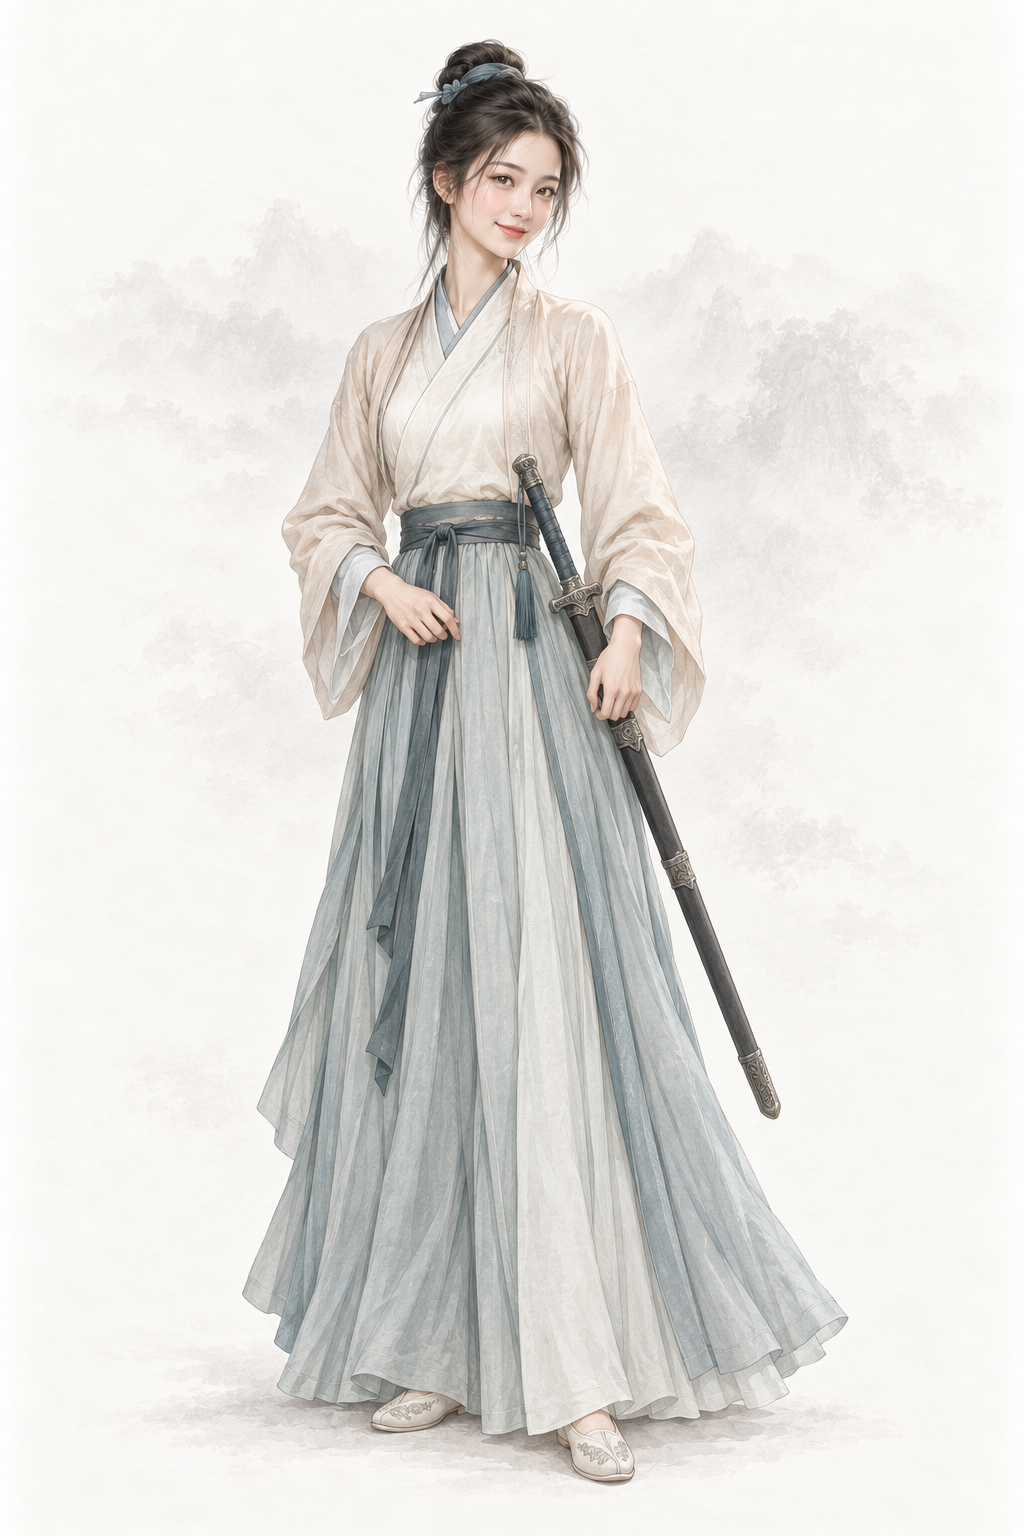
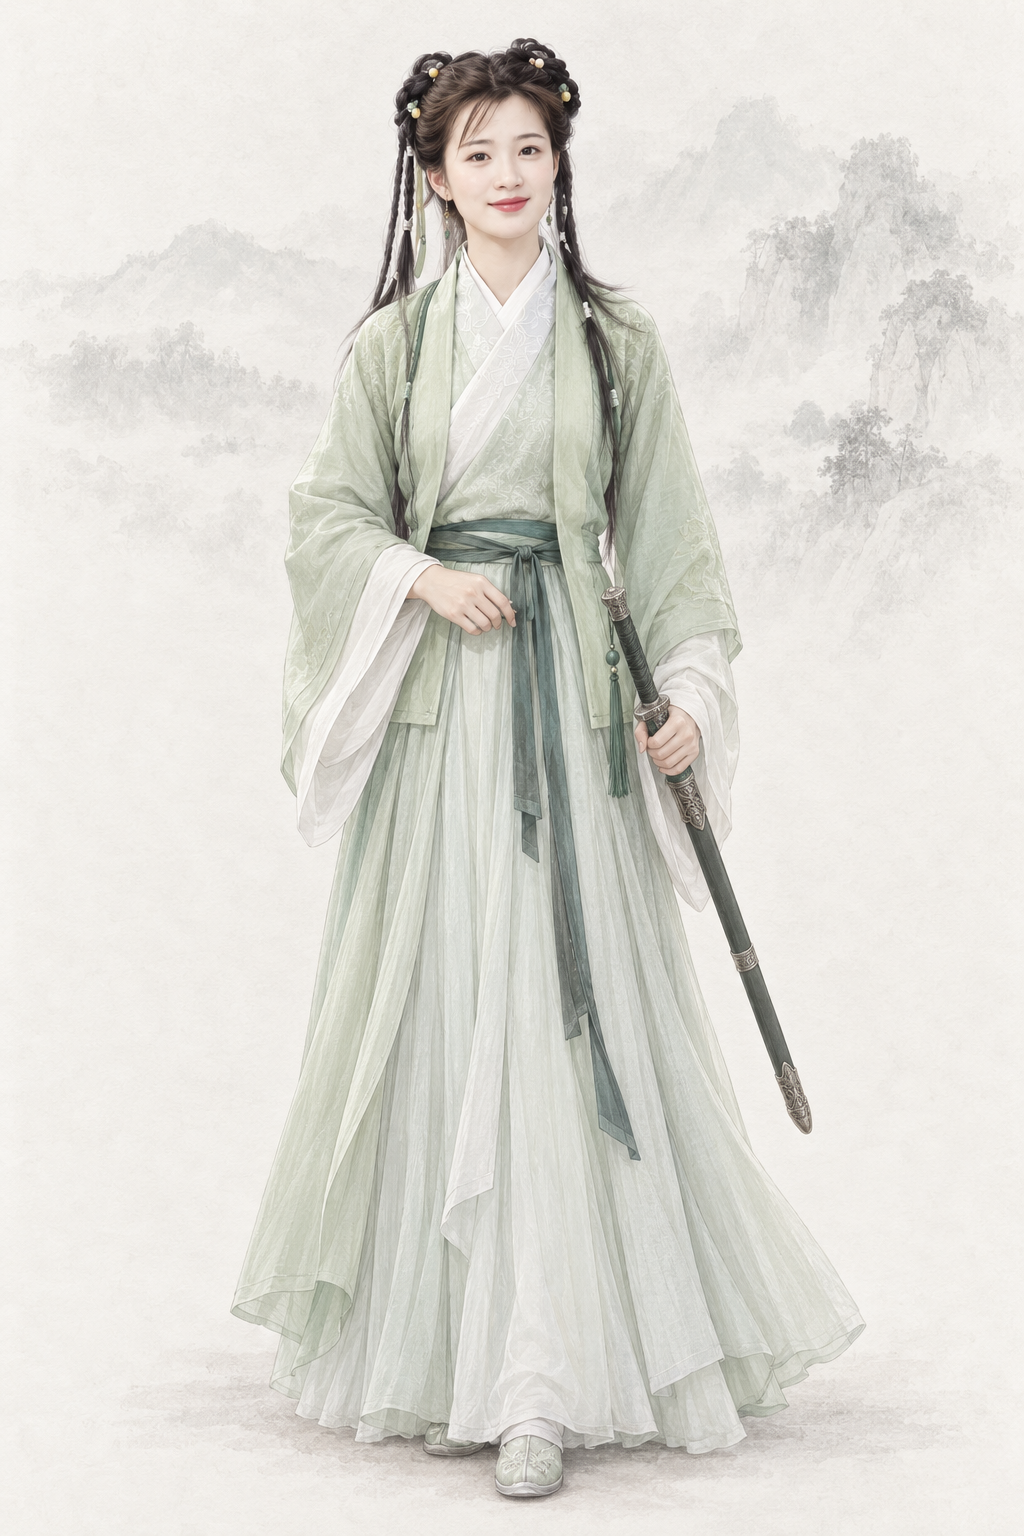
assets(character): por_npc_yuelingshan__ch05_youth_huashan_base 岳灵珊（codex · AR-32 1996 TVB《笑傲江湖》 剧照 + 基线）
参考 第 1–2 张为 1996 TVB《笑傲江湖》岳灵珊剧照（yuelingshan_1996_chenshaoxia_sina1.jpg；sohu.jpg 裁去旁人与水印）与两张同性别基线重出；提示词写回、frontmatter 加 classic_ref。

diff --git a/assets/default/prompts/characters/ch05-xiaoao/npc_yuelingshan.md b/assets/default/prompts/characters/ch05-xiaoao/npc_yuelingshan.md
@@ -13,15 +13,51 @@ references:
   use: 唯一输入图仅作用户背景参考，已实际 view：只取暖浅灰不透明纸底、极淡青灰远山水墨与留白；完全忽略女性脸、年龄、体型、头发首饰、纱裙、飘带、倾头和手势，不取花枝亭台。它不是本角色本人图，不提供面部身份。
 status: redo
 redo_reason: "现图是苍白磨皮的大眼网红脸，偏低龄、神情木然；原著小师妹应是活泼娇憨、爱笑任性的成年少女气质。"
-reference_upload:
-- assets/default/baseline/character/female/ref_npc_wangyuyan__ch01_base01.png
 realism_revision: user_identity_pose_20261001
 codex_prompt_rev: 2026-10-02
+reference_upload:
+- .agents/coord/imagegen-reference/identity-20261002/xiaoao/yuelingshan_1996_chenshaoxia_sina1.jpg
+- .agents/coord/imagegen-reference/identity-20261002/xiaoao/yuelingshan_1996_chenshaoxia_sohu.jpg
+- assets/default/baseline/character/female/ref_npc_wangyuyan__ch01_base01.png
+- assets/default/baseline/character/female/ref_npc_xiaolongnv__ch03_base01.png
+classic_ref:
+  version: 1996 TVB《笑傲江湖》
+  stills:
+  - .agents/coord/imagegen-reference/identity-20261002/xiaoao/yuelingshan_1996_chenshaoxia_sina1.jpg
+  - .agents/coord/imagegen-reference/identity-20261002/xiaoao/yuelingshan_1996_chenshaoxia_sohu.jpg
+  crop:
+    yuelingshan_1996_chenshaoxia_sohu.jpg:
+    - 140
+    - 0
+    - 620
+    - 335
 ---
 
 # 岳灵珊 · 人物写实修正
 
 ## Gemini 提示词
+
+> 2026-10-02 AR-32 重出（8 号出图员，codex exec · image_gen）：主要角色参考经典造型加项目基线生成。上传顺序：第 1–2 张为 1996 TVB《笑傲江湖》岳灵珊剧照（yuelingshan_1996_chenshaoxia_sina1.jpg；sohu.jpg 裁去旁人与水印），最后两张为同性别画风基线（缩小版 JPEG）。参考图只借造型、气质与面部特征，画面按项目画风重绘、不复制照片或像素图。上一版保留在下一节作历史。
+
+```text
+生成一张 2:3 竖幅全身人物立绘：单人、单一视角、完整全身——头顶、双手、双脚和手中器物的两端都在画面内，四周留出自然空白；人物站姿自然，身体基本朝向正面，头部端正（不歪头、不仰不俯），镜头平视。
+【参考图】第 1–2 张参考图是该角色经典影视造型的剧照：借鉴其发型、服饰、配色、标志道具、气质和面部特征，让人一眼认出是这个角色；但必须重新绘制成项目画风，不要照片质感，不要照搬剧照的构图、光影、背景和姿势，也不要做成照片修图。最后两张是本项目画风基线：画风、用色、光线、质感和暖浅灰纸底加淡水墨背景以它们为准。
+【剧照借鉴要点】取剧照里的发型（额前薄刘海，头顶两侧各盘一个小发髻、缀几颗小珠饰，鬓边垂着几缕细辫）、浅绿配白的衣色、娇憨明朗的五官与神情。姿势和构图按下文的全身立绘来画，不照搬剧照。
+【画风】写实手绘古风人物插画，与本项目写实武侠角色立绘同一画风，像功力深厚的画师用细腻笔触画出的真实人物。手绘插画质感，不是 CG 渲染：不要过度光滑的皮肤、完美对称的五官、塑料高光、过度锐利的发丝；保留自然的笔触和细微不完美。皮肤有真实质感——细小毛孔、细纹、晒痕和自然的左右不对称，不磨皮、不油亮；头发是一缕缕自然的发丝和少量碎发；布料看得出经纬纹理、厚薄和自然垂坠的褶皱，带穿用过的轻微旧化，但完整不破烂；整体设色低饱和、沉稳；柔和的自然光从左上方照来，明暗过渡自然，不打舞台光、轮廓光或美颜柔光。不是照片，不是三维渲染，不是动漫或游戏 CG，也不是油画（没有厚涂笔触和画布纹理）。
+【背景】不透明的暖浅灰色纸底，只在远处有极淡的水墨远山和薄雾，大面积留白；人物与背景明暗分明、轮廓边缘干净完整（后续要自动抠图），水墨和纸纹只在背景里，不侵入人物和衣服；脚下只有很淡的一点接触阴影。
+【人物】岳灵珊，《笑傲江湖》中华山派掌门岳不群与宁中则的独生女、令狐冲的小师妹，尚未成婚的华山时期。
+【年龄与体态】约二十岁的成年年轻女子，身材轻巧匀称、成人比例（约七头身），肩臂有练剑的力量。
+【经典造型】九十年代经典港剧里的华山小师妹：两侧小发髻缀珠饰、鬓边细辫，一身浅绿衣裙，手握长剑；娇憨活泼、爱笑任性，美丽可爱的成年女子。
+【面容】按剧照：略圆的鹅蛋脸、下巴圆润；眉毛弯而清秀；眼睛明亮灵活（自然大小），带着爱笑的神采和一点被宠出来的任性；鼻子小巧挺直；嘴唇饱满红润、嘴角上扬；皮肤白里透红。娇憨、明朗。
+【发式】额前一层薄刘海；乌黑头发在头顶两侧各盘一个小发髻，缀着几颗小珍珠和浅色珠饰，鬓边垂着几缕细细的小辫，其余长发垂在背后。
+【服饰】华山派女弟子装束：浅绿色交领短袄（右衽，左襟压右襟），布面有淡淡的织花，白色内领；浅青色长裙；深青窄腰带；平底布鞋；袖口利落。
+【道具】左手握一柄连鞘长剑（细长素鞘），斜持在身侧；右手自然放在腰前。
+【姿态与神情】轻快站立，笑容明朗。
+【不要】画面里不要任何文字、题款、印章、签名、水印、边框、分格或多视图；不要第二个人；不要幼态（童颜、娃娃脸、婴儿肥、儿童或少年身材、大头小身）；不要塑料感皮肤、磨皮美颜、网红脸（尖下巴大眼高鼻的模板脸）、过度对称、浓妆、偶像式打光、蜡像感；不要照片质感，不要像剧照照片、照片修图或拼贴，不要照搬剧照的背景、光影、构图和姿势；不要三维渲染或动漫大眼；不要歪头、斜镜头；不要多指、缺指（设定的伤残除外）、手与器物粘连或悬空；衣襟必须右衽（穿着者的左襟压在右襟上），不要左衽（设定为少数民族服制的除外），不要水平镜像；不要现代物品、发光特效、法阵或能量光。不要大眼娃娃脸、少女幼态；不要满头珠翠；不要和任盈盈、仪琳同一张脸；不要清代旗装。
+【画风基线】随提示词上传的参考图里，最后两张是本项目的立绘画风基线：只参考它们的画风、用色、光线、质感和暖浅灰纸底加淡水墨的背景处理，整体画风必须与它们一致——精细写实的数字手绘插画，不是油画，不要厚涂笔触和画布纹理。基线图只取画风，不取长相：不要照搬基线图里人物的长相、年龄、发型、服饰和姿势。
+```
+
+## AR-31 文字版 Gemini 提示词（2026-10-02 凌晨；AR-32 重出之前，历史，不再用于出图）
 
 > 2026-10-02 Codex 人物线 2 号（AR-31）：在审核组稿上补一行「经典形象」（借鉴公认经典造型的发式、装束、配色、标志道具与气质，只写文字，不写演员名、不上传剧照），并补去 AI 化要求。本轮出图用下面第一个代码块；审核组原稿保留在其后的「审核组原稿」小节作历史。
 
